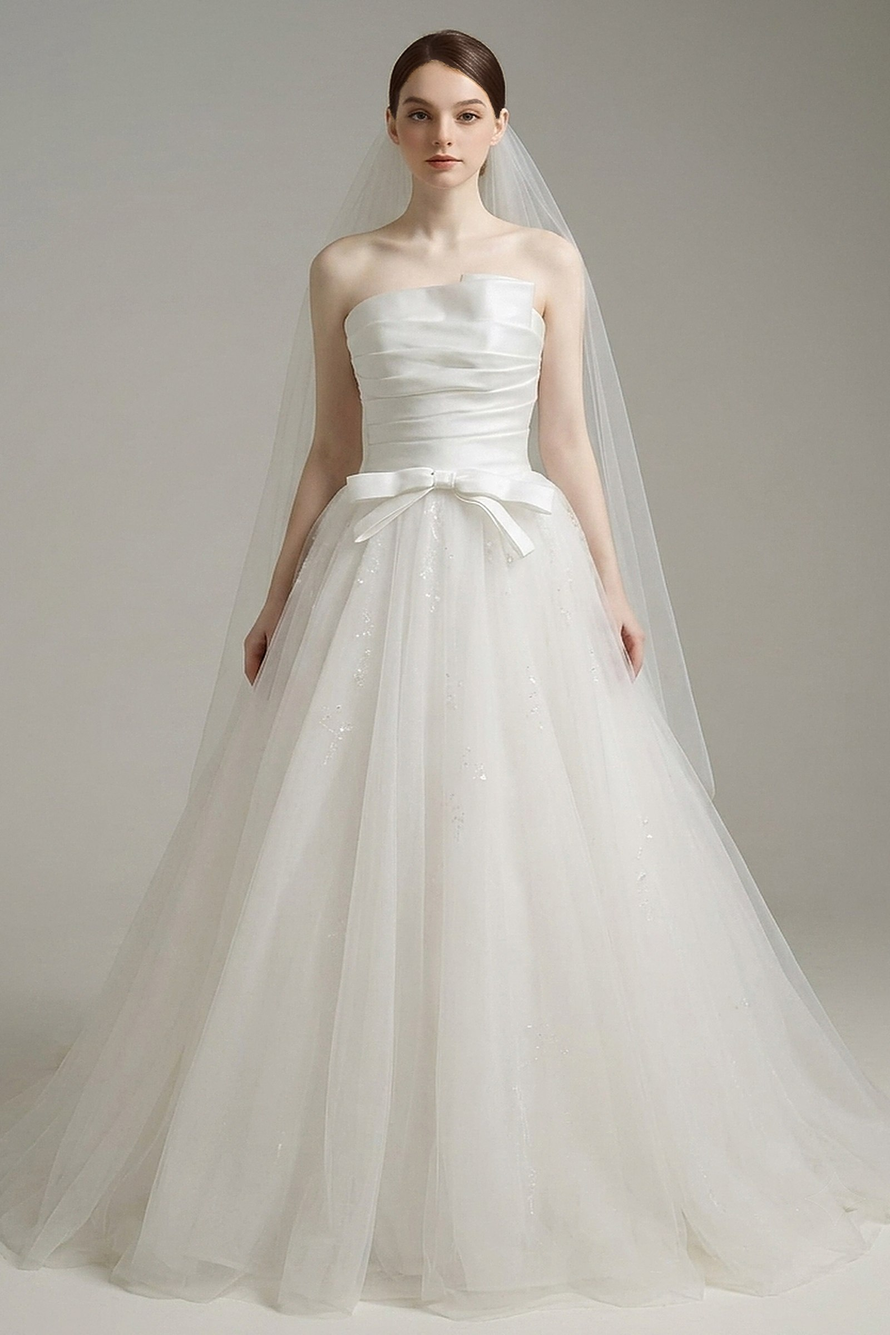
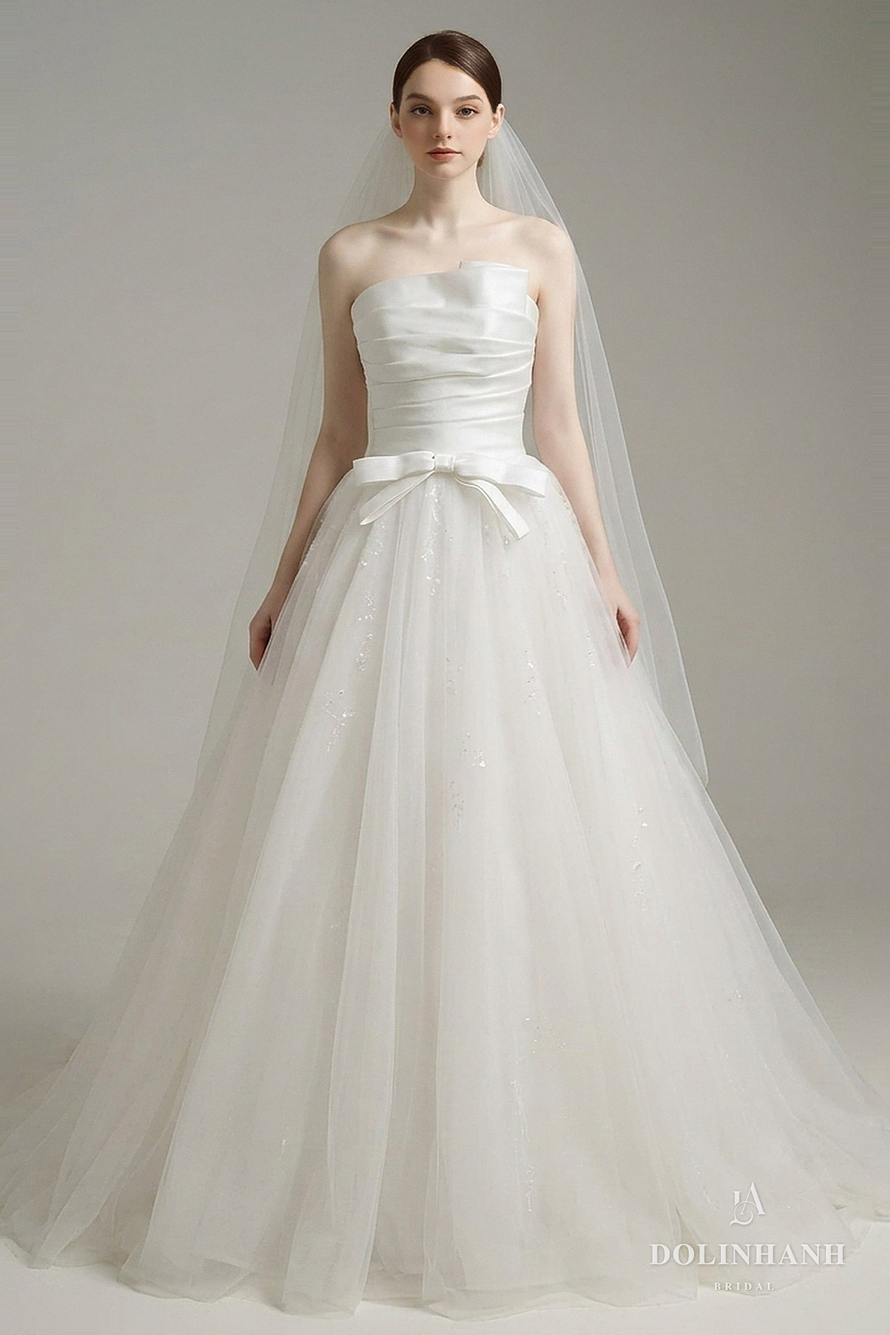
V261: MS 139: body and legs 5% longer

diff --git a/bo-suu-tap.html b/bo-suu-tap.html
@@ -1561,7 +1561,7 @@ src="https://www.facebook.com/tr?id=1358640082651240&ev=PageView&noscript=1"
         </figure>
         <figure data-dang="a-line" data-mood="minimal" data-coso="hcm">
           <div class="sl-khung">
-            <div class="sl" data-img="anh/vay/ms139/01.jpg"></div>
+            <div class="sl" data-img="anh/vay/ms139/01.jpg?v=0511"></div>
           </div>
           <figcaption><span class="kind" data-en="Dolinhanh Bridal" data-zh="Dolinhanh Bridal">Dolinhanh Bridal</span><span class="nm">MS 139</span><span class="de" data-en="Satin bow, tulle skirt" data-zh="缎面蝴蝶结，薄纱裙摆">Satin nơ eo, tùng voan</span><span class="gia">US$1,080</span></figcaption>
         </figure>
